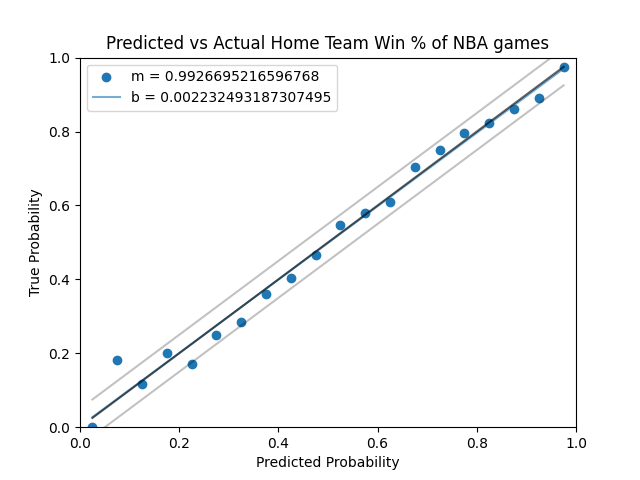
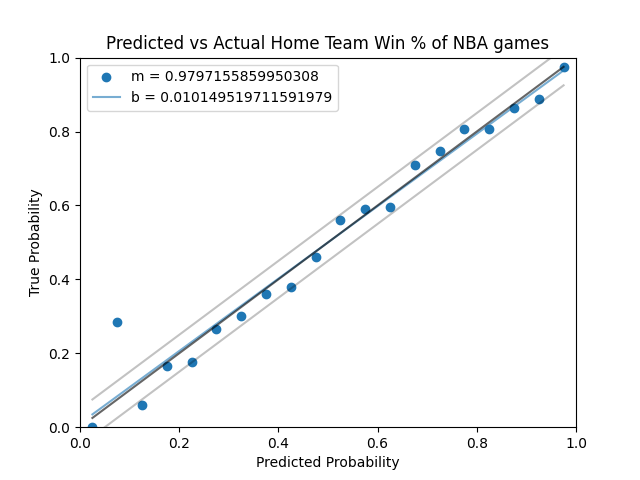
addressed a bug in the 2019/2020/2021 season start dates, moved to assuming seasons start after 9/1 and end before 9/1. prepared optimize.py for using Bayesian Optimization library.

diff --git a/app/src/optimize.py b/app/src/optimize.py
@@ -11,7 +11,6 @@ with open(config["KAGGLE_API_TOKEN_PATH"], "r") as file:
 import pandas as pd
 import statistics as stats
 from functools import partial
-from scipy.optimize import minimize, differential_evolution
 
 from Models import *
 from functions import print_current_season
@@ -22,59 +21,59 @@ def print_progress(*, intermediate_result):
     print(">>>", intermediate_result.x, intermediate_result.fun)
 
 
-def objective_function_tuple(x):
-    # split the vector into compontnes
-    min_reference_data_year = np.round(x[0])
-    z = x[1]
-    b = x[2]
-
+def objective_function_tuple(year, z, b):
     # get reference data based on min year parameter
     ref_data = pd.concat(
         [
             pd.read_csv(os.path.join(os.environ["SEASON_PATH"], dir, f"{dir}_full.csv"))
             for dir in os.listdir(os.environ["SEASON_PATH"])
-            if (int(dir.split("-")[0]) >= min_reference_data_year)
-            and not ((int(dir.split("-")[0]) >= config["MIN_TEST_DATA_YEAR"]) and config["DEBUG"])
+            if (int(dir.split("-")[0]) >= year) and not (int(dir.split("-")[0]) >= config["MIN_TEST_DATA_YEAR"])
         ],
         ignore_index=True,
     )
-    if config["DEBUG"]:
-        test_data = pd.concat(
-            [
-                pd.read_csv(os.path.join(os.environ["SEASON_PATH"], dir, f"{dir}_full.csv"))
-                for dir in os.listdir(os.environ["SEASON_PATH"])
-                if (int(dir.split("-")[0]) >= config["MIN_TEST_DATA_YEAR"])
-            ],
-            ignore_index=True,
-        )
-        test_data = test_data[
-            (test_data["HOME_games_played"] != 0)
-            & (test_data["AWAY_games_played"] != 0)
-            & (test_data["HOME_wins"] != 0)
-            & (test_data["AWAY_wins"] != 0)
-            & (test_data["HOME_home_wins"] != 0)
-            & (test_data["AWAY_away_wins"] != 0)
-            & (test_data["HOME_home_losses"] != 0)
-            & (test_data["AWAY_away_losses"] != 0)
-        ].reset_index()
+    test_data = pd.concat(
+        [
+            pd.read_csv(os.path.join(os.environ["SEASON_PATH"], dir, f"{dir}_full.csv"))
+            for dir in os.listdir(os.environ["SEASON_PATH"])
+            if (int(dir.split("-")[0]) >= config["MIN_TEST_DATA_YEAR"])
+        ],
+        ignore_index=True,
+    )
+    test_data = test_data[
+        (test_data["HOME_games_played"] != 0)
+        & (test_data["AWAY_games_played"] != 0)
+        & (test_data["HOME_wins"] != 0)
+        & (test_data["AWAY_wins"] != 0)
+        & (test_data["HOME_home_wins"] != 0)
+        & (test_data["AWAY_away_wins"] != 0)
+        & (test_data["HOME_home_losses"] != 0)
+        & (test_data["AWAY_away_losses"] != 0)
+    ].reset_index()
 
-    # calculate out the model
+    # evaluate the original model with substituted parameters
     MODEL_HOME_WIN_PR.weight_func = partial(recency_weight_function, z=z, b=b)
     MODEL_HOME_WIN_PR.calculate_model(ref_data)
 
-    if config["DEBUG"]:
-        pred_win = MODEL_HOME_WIN_PR.value(test_data, apply_mask=True)
-        true_win = test_data["GAME_homeWin"].to_numpy()
-        _, _, AUC = stats.calc_ROC_curve(pred_win, true_win)
-        BRIER = stats.calc_brier_score(pred_win, true_win)
-        ECE = stats.calc_ECE_score(pred_win, true_win)
-        _, _, M, B = stats.calc_calibrated_slope_intercept(pred_win, true_win)
+    # looping mechanism, to check how we do live with updated models after each day of the season
+    pred_win = []
+    test_dates = test_data["GAME_gameDate"].unique()
+    for game_date in test_dates:
+        for _, row in test_data[test_data["GAME_gameDate"] == game_date].iterrows():
+            pred_win.append(MODEL_HOME_WIN_PR.value(row, apply_mask=True)[0])
+            ref_data.loc[len(ref_data)] = row
+        MODEL_HOME_WIN_PR.calculate_model(ref_data)
+    pred_win = np.array(pred_win)
+    true_win = test_data["GAME_homeWin"].to_numpy()
+    _, _, AUC = stats.calc_ROC_curve(pred_win, true_win)
+    BRIER = stats.calc_brier_score(pred_win, true_win)
+    ECE = stats.calc_ECE_score(pred_win, true_win)
+    _, _, M, B = stats.calc_calibrated_slope_intercept(pred_win, true_win)
 
-        return ECE, M, B, AUC, BRIER
+    return ECE, M, B, AUC, BRIER
 
 
-def objective_function_scalar(x):
-    ECE, M, B, AUC, BRIER = objective_function_tuple(x)
+def objective_function_scalar(year, z, b):
+    ECE, M, B, AUC, BRIER = objective_function_tuple(year, z, b)
     return 4 * ECE**2
     # return 4 * (M - 1) ** 2 + 4 * B**2
     # return 4 * (AUC - 1) ** 2
@@ -84,91 +83,16 @@ def objective_function_scalar(x):
     # return np.sqrt(25 * ECE**2 + 5 * (M - 1) ** 2 + 15 * B**2 + 5 * (AUC - 1) ** 2 + 50 * BRIER**2)
 
 
-def optim_models_simplex(grid_search=False, x0=np.array([2014, -100, 5])):
-    if grid_search:
-        year_bound = (config["MIN_SEASON_YEAR"], config["MIN_TEST_DATA_YEAR"] - 1)
-        z_bound = (-250, -5)
-        b_bound = (1, 100)
-        year_values = np.linspace(*year_bound, num=(year_bound[1] - year_bound[0] + 1) // 10)
-        z_values = np.linspace(*z_bound, num=(z_bound[1] - z_bound[0] - 1) // 35)
-        b_values = np.linspace(*b_bound, num=(b_bound[1] - b_bound[0] - 1) // 9)
-        best_f = 100
-        best_x = np.array([])
-        for year in year_values:
-            for z in z_values:
-                for b in b_values:
-                    x_test = np.array([year, z, b])
-                    f_test = objective_function_scalar(x_test)
-                    if f_test <= best_f:
-                        best_x = x_test
-                        best_f = f_test
-                        print(">>>", best_x, best_f)
-    else:
-        year_bound = (config["MIN_SEASON_YEAR"], config["MIN_TEST_DATA_YEAR"] - 1)
-        z_bound = (None, 0)
-        b_bound = (0, None)
-        best_x = x0
-
-    # setup optimization routine - x0 is the winner of grid search
-    print("RUNNING SIMPLEX METHOD...")
-    result = minimize(
-        objective_function_scalar,
-        best_x,
-        method="Nelder-Mead",
-        options={
-            "maxiter": 200,
-            "disp": True,
-            "xatol": 1e-6,
-            "fatol": 1e-6,
-            "disp": True,
-        },
-        bounds=[year_bound, z_bound, b_bound],
-        callback=print_progress,
-    )
-    print(result)
-
-    # print the final result
-    print("initial point :::", x0)
-    print("Score to beat :::", objective_function_scalar(x0))
-    print("OPTIMUM IN    :::", result.x)
-    print("OPTIMUM OUT   :::", objective_function_scalar(result.x))
-
-
-def optim_models_genetic(x0=np.array([2014, -100, 5])):
-    year_bound = (config["MIN_SEASON_YEAR"], config["MIN_TEST_DATA_YEAR"] - 1)
-    z_bound = (-250, -5)
-    b_bound = (1, 100)
-    print("RUNNING GENETIC ALGORITHM...")
-    result = differential_evolution(
-        func=objective_function_scalar,
-        bounds=[year_bound, z_bound, b_bound],
-        x0=x0,
-        strategy="best1bin",
-        maxiter=500,
-        callback=print_progress,
-        disp=True,
-        # polish=True,
-        integrality=[True, False, False],
-    )
-    print(result)
-
-    # print the final result
-    # print("initial point :::", x0)
-    # print("Score to beat :::", objective_function_scalar(x0))
-    print("OPTIMUM IN    :::", result.x)
-    print("OPTIMUM OUT   :::", objective_function_scalar(result.x))
-
-
-def optim_models_daybyday():
-    # TODO fill out this function with new logic, that can consider multiple models simultaneously without overwriting the same model each time
-    # consider writing your own genetic optimization
-    # as much parallelization you can write (calculate models at each iter) the better
-    pass
+def optim_models_daybyday(x0):
+    print(x0)
 
 
 def main():
     print("----- WELCOME TO THE BASKETBALL COMPUTER THINGY -----")
     download_and_sort_data(config)  # donwload/sort raw data, if necessary
+    optim_models_daybyday(np.array([2020, -42, 51]))
+    print(objective_function_scalar(2020, -42, 51))
+
     # optim_models_simplex(True)
     # optim_models_simplex(False, np.array([]))
     # optim_models_genetic(np.array([]))

diff --git a/app/src/download_and_sort_data.py b/app/src/download_and_sort_data.py
@@ -43,8 +43,8 @@ def sort_data_by_season(df: pd.DataFrame, path, min_season_year, reset_time_file
         with open(reset_time_filepath, "w") as file:
             file.write(datetime.datetime.now(datetime.timezone.utc).isoformat())
     for year in range(min_season_year if full else current_season_year, current_season_year + 1):
-        # assumes the first day of the season occurs after August 1st of that year, and concludes before August 1st the following year, split to avoid dataframe lock
-        season_df = df[(df["gameDateTimeEst"] > f"{year}-08-01 00:00:00") & (df["gameDateTimeEst"] < f"{year+1}-08-01 00:00:00")]
+        # assumes the first day of the season occurs after September 1st of that year, and concludes before September 1st the following year, split to avoid dataframe lock
+        season_df = df[(df["gameDateTimeEst"] > f"{year}-09-01 00:00:00") & (df["gameDateTimeEst"] < f"{year+1}-09-01 00:00:00")]
         if not season_df.empty:
             # helper nums
             dir_path = os.path.join(path, f"{year}-{year+1}")
